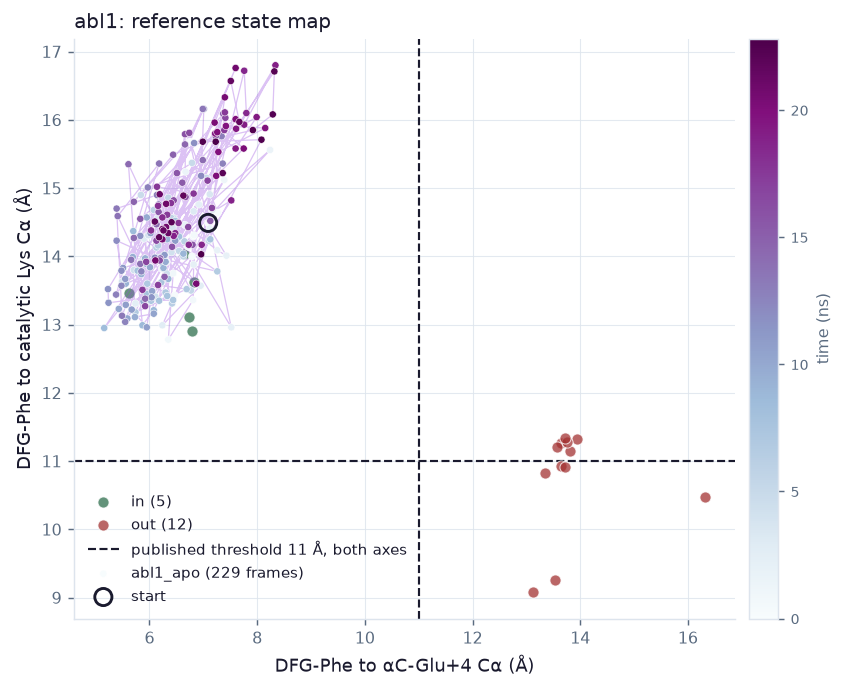
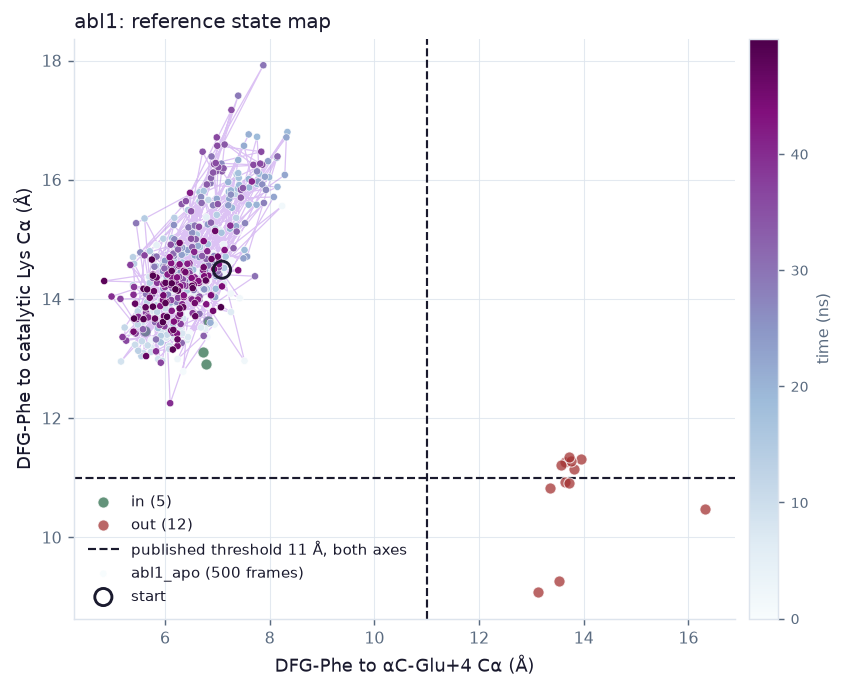
abl1_apo finished, and the excursion reversed
50 ns in 4.93 h at 223.9 ns/day. produced_ns is 50.0, so the short-row check
passes on the context's figure rather than the target. Handed over to
b2ar_carazolol at 22:32, the row P5 turns on. Analysed at 500 frames, ingested
complete, figures redrawn, every stored number verified, P4 still 4 of 4.

The deferred judgement was right. At 22.8 ns the DFG-Phe to catalytic-Lys
distance had a final-tenth mean of 15.16 A against a reference range topping
out at 14.04, and section 1.1 was corrected to say the path had left. I
stopped short of the mechanism because 5.0c had read a trend at 30.8 ns that
was not there. Over the full run the final tenth is 14.01, back inside: a
broad reversible excursion, above the reference maximum in 342 of 500 frames,
plateauing near 15.0 from 15 to 35 ns, peaking at 17.92 at 29.6 ns, relaxed by
50.

Section 1.1 has now been wrong in both directions, from 43 frames and from
229. Rewritten on all 500, with the lesson in it: the fix is not more caution
in the prose, it is to date the reading.

The physics is unchanged and still supports the argument. Salt bridge 2.79 A
in 482 of 500, correlating with the excursion at r = +0.119; aC settles
rather than shifts; spine assembled in 499; the rule calls in on every frame.
A motif travelled four angstroms and came back with the label unchanged.

5.7 written. The row is undramatic and that is its result: DFG active in 499
of 500, everything else intermediate, flat after the first 10 ns. No flip,
[…]

diff --git a/FINDINGS.md b/FINDINGS.md
@@ -49,45 +49,47 @@ axis it cuts straight through the DFG-out cluster: six red points sit between
 11.1 and 11.35 Å, just above the line, and those are exactly the six structures
 the rule calls `other`. The shaded path is `abl1_apo`.
 
-**That path has since left the DFG-in cluster on one axis, and the sentence
-here used to say it did not.** It read "stays inside the DFG-in cluster
-throughout", which was true of the 43 frames that existed when it was written
-and is not true of the 229 frames that exist now. The correction matters more
-than the slip, because what the path does is the clearest statement of what the
-recalibrated rule costs.
+**The path leaves the DFG-in reference range on one axis and comes back, and
+this paragraph has now been wrong in both directions.** It first read "stays
+inside the DFG-in cluster throughout", written against the 43 frames that
+existed at the time. It was then corrected at 22.8 ns to say the path had left
+and not returned, which read a 20 ns excursion as a trend. The finished run is
+the third reading and the only one taken on all 500 frames:
 
-At 22.8 ns, with the run still going:
-
-| | DFG-in references | `abl1_apo` so far |
+| | DFG-in references | `abl1_apo`, 50 ns |
 |---|---|---|
-| αC anchor | 5.61 to 6.83 Å | 5.16 to 8.34 Å, final tenth 6.96 |
-| Lys anchor | 12.91 to 14.04 Å | 12.78 to **16.80** Å, final tenth 15.16 |
-| difference | −6.1 to −7.9 Å | −5.44 to −9.74 Å, final tenth −8.21 |
+| αC anchor | 5.61 to 6.83 Å | 4.84 to 8.34 Å, final tenth 6.11 |
+| Lys anchor | 12.91 to 14.04 Å | 12.25 to **17.92** Å, final tenth 14.01 |
+| difference | −6.1 to −7.9 Å | −5.44 to −10.04 Å, final tenth −7.90 |
 
-The Lys anchor has left the reference range entirely and is 2.8 Å past its
-maximum at the extreme, while the difference has moved **further** into DFG-in
-territory and the rule calls `in` on all 229 frames. Three independent things
-say nothing is breaking: the αC-Glu to catalytic-Lys salt bridge is intact at
-2.83 Å for 225 of 229 frames, the αC helix has not moved (centroid shift
-0.68 Å, axis rotation 5.4°, both flat), and the regulatory spine is assembled
-in 228. The salt bridge is uncorrelated with the drift, r = −0.013, so this is
-not the lysine letting go.
+The Lys anchor is above the reference maximum in **342 of 500 frames**, rising
+from about 14.0 Å over the first 10 ns to a plateau near 15.0 through the
+middle of the run, peaking at 17.92 Å at 29.6 ns, and relaxing back to 14.01
+over the last 5 ns. So it is neither "inside throughout" nor "left": it is a
+broad, reversible excursion that the kinase spends most of the run inside and
+exits by the end.
+
+Nothing else moves with it. The αC-Glu to catalytic-Lys salt bridge holds at
+2.79 Å with 482 of 500 frames `in`, and its correlation with the excursion is
+r = +0.119, which is no relationship. The αC helix settles rather than shifts:
+centroid 0.95 to 0.68 Å, axis rotation 8.1° to 3.2°. The regulatory spine is
+assembled in 499 of 500. The rule calls `in` on **every** frame.
 
 **The cost of reading the state from a difference is that neither distance is
-bounded.** The published rule put an absolute line on each axis, and this
-trajectory would have crossed it: the Lys anchor is above 11.0 Å throughout and
-would have read `other` by the published criterion from the first frame, which
-is the same fault that made it call six DFG-out references `other`. The
-recalibration fixes that and pays for it here, by being insensitive to a motif
-moving a long way as long as both anchors move together. The label is right and
-it is not the whole story, which is why the state map is on the page beside it
-rather than only the label.
+bounded.** The published rule put an absolute line on each axis and this
+trajectory would have crossed it: the Lys anchor is above 11.0 Å in every
+frame, so the published criterion would have read `other` for the whole run,
+which is the same fault that made it call six DFG-out references `other`. The
+recalibration is right and it is not the whole story, because a motif can make
+a 4 Å round trip with the label unchanged and confident. That is why the state
+map is on the page beside the label rather than the label alone.
 
-What is actually moving is left for the finished run: the catalytic Lys Cα is
-receding from the DFG-Phe ring while its own side chain stays bonded to αC-Glu
-and αC stays put, which points at the N-lobe rather than at the motif, but 23
-of 50 ns is where 5.0c read a trend that was not there and this build has
-already made that mistake once.
+**What this cost three times is a lesson about reading a running trajectory.**
+Each wrong version was written from the frames that happened to exist. 5.0c did
+the same thing to TM5 at 30.8 ns, calling flat a motif that had moved by 50 ns.
+The fix is not more caution in the prose; it is to date the reading. Every
+quantitative claim about a run in this document now carries the length it was
+taken at, and the finished-run number replaces it rather than sitting beside it.
 
 Logged as D010. The same threshold is in BoltzMaker's own `compare-sse` and will
 mislabel the same structures there, so this is a candidate upstream change.
@@ -4316,6 +4318,81 @@ reason the per-motif timelines exist.
 the microsecond relaxation β2AR's active-to-inactive transition was observed on,
 so TM5's drift is a beginning and not a transition, and one replica cannot
 separate it from an excursion. Section 7 holds the rest.
+
+### 5.7 The second finished row, and a motif that went out and came back
+
+`abl1_apo` completed its 50 ns at 22:32 on 11 October, 4.93 hours of wall clock
+at 223.9 ns/day on OpenCL single precision, 46,721 atoms. Two of the four
+production rows are now final. The queue handed straight over to
+`b2ar_carazolol`, which is the row P5 has been waiting for.
+
+**The state result, over all 500 scored frames:**
+
+| motif | start | final tenth | sd | first half | second half |
+|---|---|---|---|---|---|
+| A-loop | +0.153 | +0.203 | 0.021 | +0.204 | +0.205 |
+| alphaC | −0.065 | +0.113 | 0.095 | +0.219 | +0.157 |
+| c.l | −0.093 | +0.069 | 0.102 | −0.067 | +0.018 |
+| g.l | −0.020 | −0.050 | 0.086 | +0.014 | −0.087 |
+| hinge | +0.028 | +0.044 | 0.095 | +0.019 | +0.039 |
+| xDFG | +0.732 | +0.715 | 0.076 | +0.715 | +0.740 |
+
+Whole protein, residue weighted: **+0.093 at the start, +0.168 over the final
+tenth**, labelled intermediate in 423 of 500 frames and active in 77. One
+conflict in 3,000 motif-frames.
+
+**The kinase does not go anywhere, and that is the result.** The DFG motif is
+labelled active in 499 of 500 frames and is the only motif with a decisive
+score. Everything else sits in the intermediate band: αC is split almost evenly
+between intermediate and active, and the catalytic loop, the G-rich loop and
+the hinge are intermediate in more than 94 per cent of frames each. The
+whole-protein score rises slightly over the first 10 ns and then does nothing
+for 40.
+
+This is the expected answer and it is worth saying why. The run starts from
+2GQG, which is DFG-in, and section 4.2's point in choosing it was that the
+motif is free to flip. It does not: the DFG flip is a microsecond event, which
+D009 records, and 50 ns is forty times short of it. What this row demonstrates
+is that the annotation holds a stable state stably, without drifting or
+flickering, across a trajectory long enough for a side chain to find every
+rotamer it wants.
+
+**The dephosphorylation caveat applies to this row above all others.** The
+start structure carries phosphotyrosine at 393 and the force field has no
+parameters for it, so it is built as plain tyrosine (D018). Phosphorylation at
+that position is one of the main things that holds ABL1 active, so a run that
+had drifted inactive would have had a physical explanation ready. It did not
+drift, which makes the caveat less load-bearing here than it would have been.
+
+**One motif made a four-angstrom round trip without changing its label.** The
+DFG-Phe to catalytic-Lys distance, the second of the two anchors the Dunbrack
+criterion uses, leaves the DFG-in reference range and returns:
+
+| window | mean | max | frames above the reference max |
+|---|---|---|---|
+| 0 to 10 ns | 14.03 Å | 15.68 Å | 46 of 100 |
+| 15 to 35 ns | 15.02 Å | 17.92 Å | 182 of 200 |
+| 45 to 50 ns | 14.01 Å | 15.14 Å | 24 of 50 |
+
+It is above the DFG-in references' maximum of 14.04 Å in **342 of 500 frames**,
+peaks at 17.92 Å at 29.6 ns, and comes back. Nothing else moves with it: the
+αC-Glu to catalytic-Lys salt bridge holds at 2.79 Å in 482 of 500 frames and
+correlates with the excursion at r = +0.119, the αC helix settles rather than
+shifts, and the spine is assembled in 499. The state call is `in` on every
+frame.
+
+Section 1.1 now carries this, because it is the clearest statement of what that
+section's recalibration costs: reading the state from the difference between
+two distances leaves neither distance bounded. The published absolute rule
+would have called this run `other` from the first frame to the last, which is
+worse, so the recalibration stands. But a motif can travel four angstroms and
+return with the label unchanged and confident, and only the state map shows it.
+
+**What this row cannot say.** One replica, 50 ns, dephosphorylated, and no flip
+observed. A row that holds its state is weak evidence that the method would
+catch a change, which is why the comparison the matrix is built on needs
+`abl1_imatinib`, the row expected to hold for a different reason, and
+`b2ar_carazolol`, the row P5 turns on. Section 7 holds the rest.
 
 ## 6. The positive controls
 

diff --git a/BUILD_LOG.md b/BUILD_LOG.md
@@ -1682,3 +1682,42 @@ nothing re-derived it until tonight. The test skips without the KLIFS cache,
 since a checkout without it has nothing to measure.
 
 1040 passed, 2 skipped.
+
+### 11 October, 22:35. abl1_apo finished, and the excursion reversed
+
+50 ns in 4.93 h at 223.9 ns/day, 46,721 atoms, `produced_ns` 50.0 so the short
+row check passes on the figure from the context rather than the target. The
+queue handed over to `b2ar_carazolol` at 22:32, which is the row P5 turns on.
+Analysed at 500 frames, ingested complete, figures redrawn, every stored
+number verified against its analysis, P4 still 4 of 4.
+
+**The deferred judgement was the right one.** At 22.8 ns the DFG-Phe to
+catalytic-Lys distance had a final-tenth mean of 15.16 Å against a reference
+range topping out at 14.04, and I corrected section 1.1 to say the path had
+left the DFG-in range. I stopped short of the mechanism because 5.0c had read
+a trend at 30.8 ns that was not there. Over the full run the final tenth is
+**14.01**, back inside. It is a broad reversible excursion: above the reference
+maximum in 342 of 500 frames, a plateau near 15.0 Å from 15 to 35 ns, peaking
+at 17.92 Å at 29.6 ns, and relaxed by 50.
+
+So section 1.1 has now been wrong in both directions, first "stays inside
+throughout" from 43 frames, then "has left" from 229. It is rewritten on all
+500, and the lesson is in it: the fix is not more caution in the prose, it is
+to date the reading.
+
+The physics is unchanged and still supports what that section argues. The salt
+bridge holds at 2.79 Å in 482 of 500 and correlates with the excursion at
+r = +0.119, αC settles rather than shifts, the spine is assembled in 499, and
+the rule calls `in` on every frame. A motif travelled four angstroms and came
+back with the label unchanged, which is what reading a state from a difference
+costs.
+
+5.7 written. The row itself is undramatic and that is its result: DFG active in
+499 of 500, everything else intermediate, the whole-protein score flat after
+the first 10 ns. No flip, which D009 already said 50 ns was forty times too
+short to see.
+
+GATE_OPEN's status line updated again; it went stale within 90 minutes of being
+corrected, which is what a status line in a hand-written document does.
+
+1040 passed, 2 skipped.

diff --git a/GATE_OPEN.md b/GATE_OPEN.md
@@ -1,10 +1,11 @@
 # Gates waiting on Marc
 
 Written per section 0.2's gate protocol. G4 is now open and pushed. G3 is the
-only gate still waiting and it blocks nothing: Tier 2 is running. As of 21:10
-on 11 October, `b2ar_apo` is **complete** at 50 ns and fully analysed with its
-bilayer QC, `abl1_apo` is producing at 37 ns of 50, and `b2ar_carazolol` and
-`abl1_imatinib` are queued behind it.
+only gate still waiting and it blocks nothing: Tier 2 is running. As of 22:35
+on 11 October, **two of the four rows are complete and final**: `b2ar_apo` at
+50 ns with its bilayer QC, and `abl1_apo` at 50 ns in 4.93 h at 223.9 ns/day.
+`b2ar_carazolol` started at 22:32 and is the row P5 turns on; `abl1_imatinib`
+is queued behind it.
 
 ---
 
